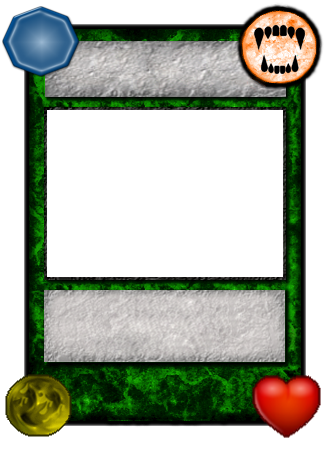
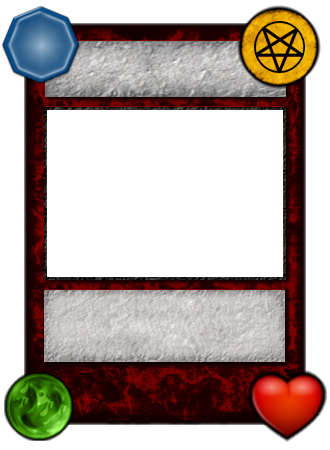
ADDED All card type images ADDED Client shows the right card type

Changed region(s): [[0.0, 0.0, 1.0, 0.9956]]

diff --git a/SoulsClient/Scripts/Game/Objects/Card.js b/SoulsClient/Scripts/Game/Objects/Card.js
@@ -1,4 +1,4 @@
-define("card", ['pixi', 'asset', 'stopwatch', 'messages', 'conf', 'cardanimation'], function (pixi, asset, StopWatch, Message, Conf, CardAnimation) {
+define("card", ['pixi', 'asset', 'stopwatch', 'messages', 'conf', 'cardanimation', 'cardtype'], function (pixi, asset, StopWatch, Message, Conf, CardAnimation, CardType) {
 
     var that = this;
 
@@ -45,8 +45,10 @@
         this.name = "NA";
         this.attack = "NA";
         this.ability = "NA";
-        this.race = undefined;
+        this.race = (!!jsonData.race) ? jsonData.race.id : 0;
         this.isDead = false;
+
+        //this.SetText({ race:  });
 
         // Setup the card layout / graphics
         this.SetupFrontCard(this);
@@ -59,7 +61,8 @@
                 attack: jsonData.attack,
                 name: jsonData.name,
                 cost: jsonData.cost,
-                ability: (!!jsonData.ability) ? jsonData.ability.name : undefined
+                ability: (!!jsonData.ability) ? jsonData.ability.name : undefined,
+                race: jsonData.race
 
             });
 
@@ -85,7 +88,7 @@
     /// </summary>
     /// <param name="text">Example on format : {health: 10, cost: 5}</param>
     Card.prototype.SetText = function (text) {
-
+        console.log(text);
         if (text.health) {
             this.health = text.health;
             this.texts.health.setText(text.health);
@@ -108,7 +111,8 @@
         }
         if(text.race)
         {
-            this.race = text.race;
+            this.race = text.race.id;
+            this.SetupFrontCard();
         }
     }
 
@@ -122,7 +126,7 @@
 
     Card.prototype.SetupFrontCard = function () {
         // Make card frontside
-        this.frontCard = new pixi.Sprite(asset.GetTexture(asset.Textures.CARD_VAMPIRIC));
+        this.frontCard = new pixi.Sprite(CardType.GetCardTexture(this.race));
         this.frontCard.anchor = { x: 0.5, y: 0.5 };
         this.frontCard.height = 210;
         this.frontCard.width = 150;
@@ -146,7 +150,7 @@
                 strokeThickness: 4
             });
         txtHealth.anchor = { x: 0, y: 0 };
-        txtHealth.position.x = (this.frontCard.width) - (txtHealth.width / 1.5);
+        txtHealth.position.x = (this.frontCard.width) - (txtHealth.width + 13);
         txtHealth.position.y = (this.frontCard.height) - (txtHealth.height);
         this.texts.health = txtHealth;
 
@@ -158,8 +162,8 @@
                 stroke: '#000000',
                 strokeThickness: 4
             });
-        txtCost.position.x = -(this.frontCard.width) + txtCost.width / 6;
-        txtCost.position.y = -(this.frontCard.height);
+        txtCost.position.x = -(this.frontCard.width) + 11;
+        txtCost.position.y = -(this.frontCard.height) + 4;
         this.texts.cost = txtCost;
 
         // CardFactory Attack Label
@@ -171,7 +175,7 @@
                 strokeThickness: 4
             });
         txtAttack.anchor = { x: 0, y: 0 };
-        txtAttack.position.x = -(this.frontCard.width) + txtAttack.width / 6;
+        txtAttack.position.x = -(this.frontCard.width) + 10;
         txtAttack.position.y = (this.frontCard.height) - (txtAttack.height);
         this.texts.attack = txtAttack;
 

diff --git a/SoulsClient/Scripts/Game/States/Game.js b/SoulsClient/Scripts/Game/States/Game.js
@@ -45,12 +45,12 @@
 
 
             // Network for best host
-            // this.gameSocket = new Socket("ws://hybel.keel.no:8140/game");
-            // this.chatSocket = new Socket("ws://hybel.keel.no:8140/chat");
+            this.gameSocket = new Socket("ws://hybel.keel.no:8140/game");
+            this.chatSocket = new Socket("ws://hybel.keel.no:8140/chat");
 
             // Network for råtn host
-            this.gameSocket = new Socket("ws://tux.persoft.no:8140/game");
-            this.chatSocket = new Socket("ws://tux.persoft.no:8140/chat");
+            //this.gameSocket = new Socket("ws://tux.persoft.no:8140/game");
+            //this.chatSocket = new Socket("ws://tux.persoft.no:8140/chat");
 
             // Tools etc
             this.toolbox = ToolBox;

diff --git a/SoulsClient/Scripts/Game/Objects/CardType.js b/SoulsClient/Scripts/Game/Objects/CardType.js
@@ -1,16 +1,17 @@
 define("cardtype", ['asset', 'stopwatch'], function (Asset, Stopwatch) {
 
-    CardType = new function () {
+    CardType = function () {
 
     }
     CardType.prototype.constructor = CardType;
 
+
     CardType.Textures = {
         0: Asset.Textures.CARD_NONE,
         1: Asset.Textures.CARD_DARKNESS,
-        2: Asset.Textures.CARD_LIGHTBRINGER,
-        3: Asset.Textures.CARD_FEROCIOUS,
-        4: Asset.Textures.CARD_VAMPIRIC
+        2: Asset.Textures.CARD_VAMPIRIC,
+        3: Asset.Textures.CARD_LIGHTBRINGER,
+        4: Asset.Textures.CARD_FEROCIOUS,
     }
 
 
@@ -33,6 +34,6 @@
         }
 
 
-    return CardType;
+    return new CardType();
 });
 

diff --git a/SoulsClient/Scripts/Game/Toolbox/AssetLoader.js b/SoulsClient/Scripts/Game/Toolbox/AssetLoader.js
@@ -67,7 +67,10 @@ http://buzz.jaysalvat.com/documentation/buzz/
             CARD_NONE: Asset.Path.Textures + "Card/CARD_NONE.png",
             CARD_SLOT: Asset.Path.Textures + "Card/cardslot.png",
             CARD_BACK: Asset.Path.Textures + "Card/cardback.png",
+            CARD_DARKNESS: Asset.Path.Textures + "Card/darkness.png",
             CARD_VAMPIRIC: Asset.Path.Textures + "Card/vampiric.png",
+            CARD_LIGHTBRINGER: Asset.Path.Textures + "Card/lightbringer.png",
+            CARD_FEROCIOUS: Asset.Path.Textures + "Card/ferocious.png",
 
             // Target arrow
             ARROW_CORSHAIR : Asset.Path.Textures + "target.png",

diff --git a/SoulsClient/Scripts/Game/Networking/GameService.js b/SoulsClient/Scripts/Game/Networking/GameService.js
@@ -148,7 +148,8 @@
                  attack: cardData.attack,
                  name: cardData.name,
                  cost: cardData.cost,
-                 ability: cardData.ability.name
+                 ability: cardData.ability.name,
+                 race: cardData.race
 
              });
 

diff --git a/SoulsClient/Scripts/Game/Main.js b/SoulsClient/Scripts/Game/Main.js
@@ -36,6 +36,7 @@ require.config({
 
         // Objects
         "card": "Objects/Card",
+        "cardtype": "Objects/CardType",
         "cardslot": "Objects/CardSlot",
         "player": "Objects/Player",
         "playerbase": "Objects/PlayerBase",
